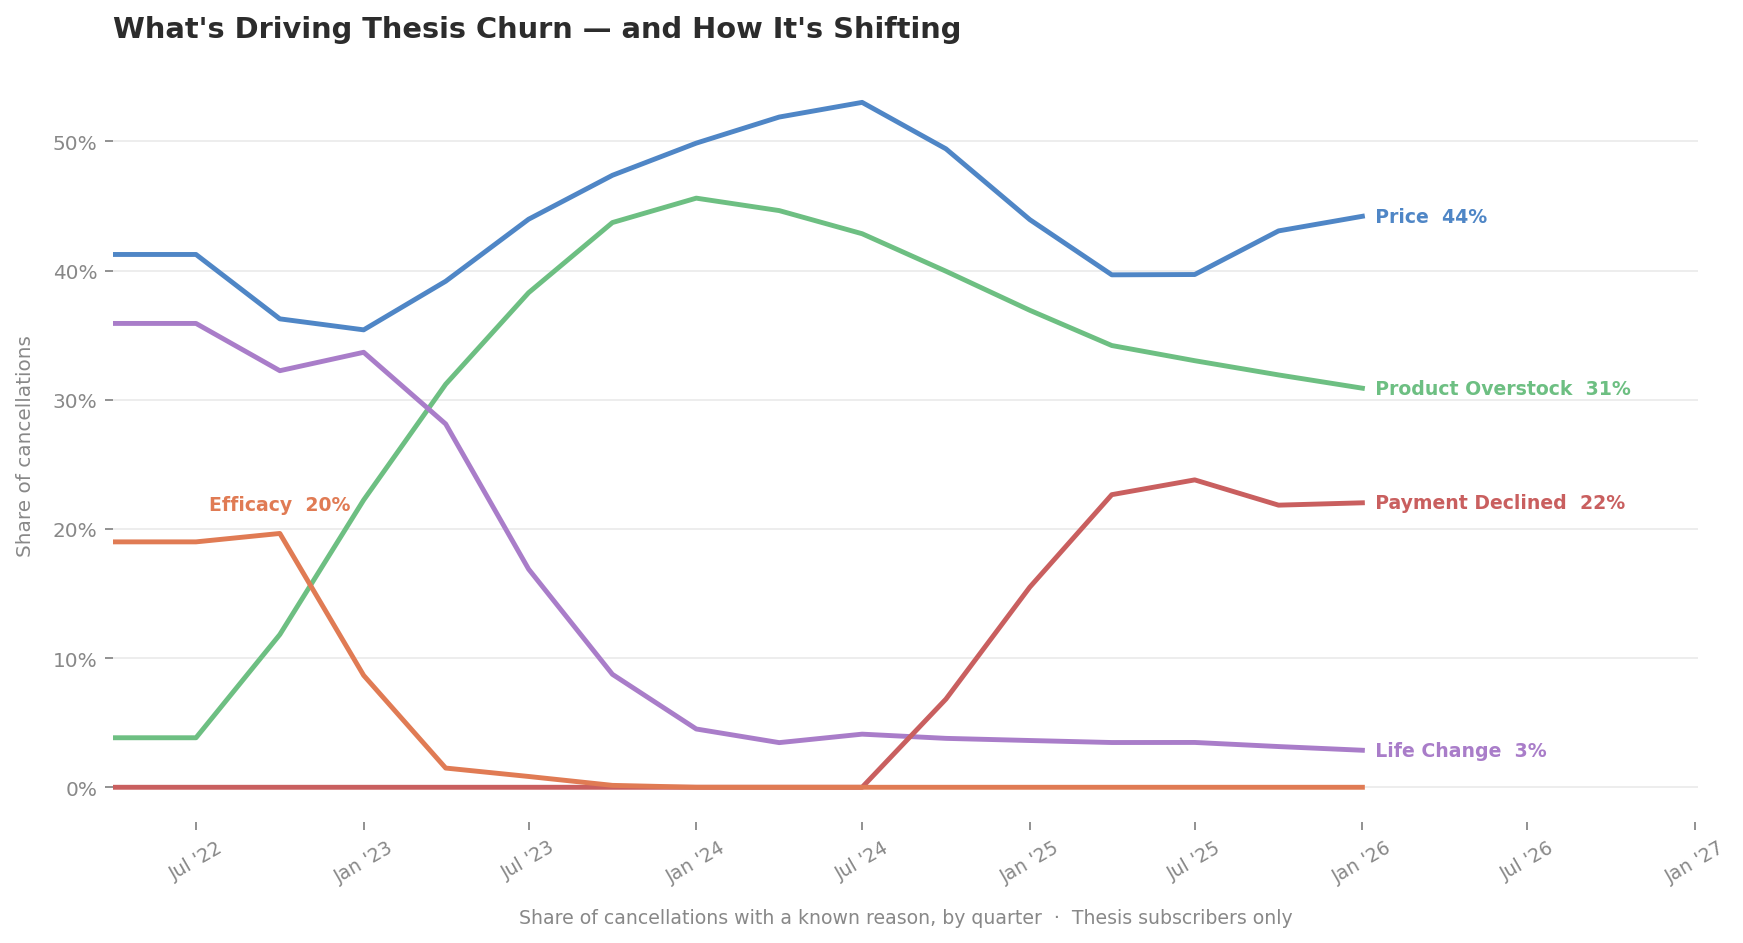
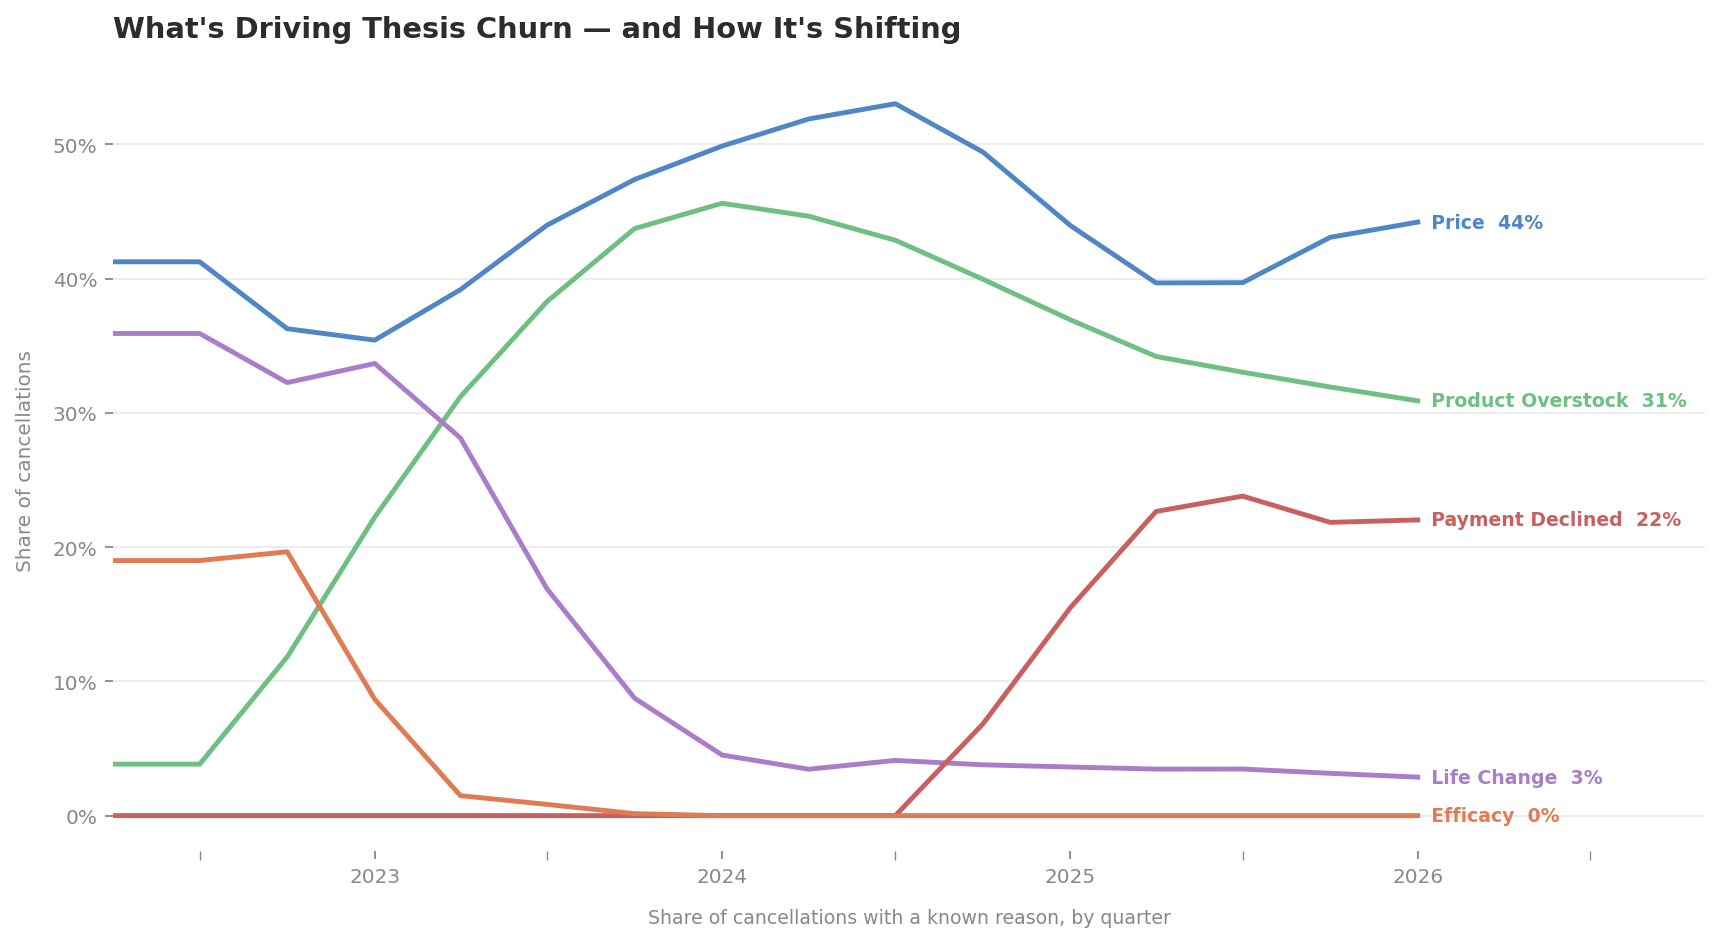
Trend chart: consistent end labels, year-only axis, no phantom future
All lines now labeled at endpoint (Efficacy shows 0% at end)
Subtitle: removed 'Thesis subscribers only'
X-axis: year labels only at Jan ticks, tick marks at Jul intervals
X-axis range: ends at last data point (Jan 2026), ~22% label padding only

diff --git a/docs/make_charts.py b/docs/make_charts.py
@@ -182,7 +182,7 @@ def chart_2():
 # ─────────────────────────────────────────────────────────────────────────────
 
 C3_TITLE    = "What's Driving Thesis Churn — and How It's Shifting"
-C3_SUBTITLE = "Share of cancellations with a known reason, by quarter  ·  Thesis subscribers only"
+C3_SUBTITLE = "Share of cancellations with a known reason, by quarter"
 C3_YLABEL   = "Share of cancellations"
 C3_OUT      = Path(__file__).parent / "chart_3_trends.png"
 C3_FIG_SIZE = (11, 6)
@@ -231,29 +231,26 @@ def chart_3():
 
         ax.plot(dates, smoothed, color=color, linewidth=2.2, zorder=4)
 
-        # Label at the peak (handles lines that end near zero)
-        peak_i     = int(np.argmax(smoothed))
-        peak_val   = smoothed[peak_i]
-        final_val  = smoothed[-1]
+        # Label every line at its endpoint, consistently
+        final_val = smoothed[-1]
+        # Small vertical nudge to avoid overlap at crowded values
+        ax.text(dates[-1], final_val, f"  {ARCH_LABELS[arch]}  {final_val:.0f}%",
+                ha="left", va="center", fontsize=8.5,
+                color=color, fontweight="600")
 
-        # Place label at right end if final > 2%, otherwise at peak
-        if final_val >= 2:
-            lx, ly = dates[-1], final_val
-            ax.text(lx, ly, f"  {ARCH_LABELS[arch]}  {final_val:.0f}%",
-                    ha="left", va="center", fontsize=8.5,
-                    color=color, fontweight="600")
-        elif peak_val >= 2:
-            lx, ly = dates[peak_i], peak_val
-            ax.text(lx, ly + 1.5, f"{ARCH_LABELS[arch]}  {peak_val:.0f}%",
-                    ha="center", va="bottom", fontsize=8.5,
-                    color=color, fontweight="600")
-
-    # X-axis: quarterly dates, labelled by year
-    ax.set_xlim(dates[0], dates[-1] + (dates[-1] - dates[-2]) * 4)
     import matplotlib.dates as mdates
-    ax.xaxis.set_major_locator(mdates.MonthLocator(bymonth=[1, 7]))
-    ax.xaxis.set_major_formatter(mdates.DateFormatter("%b '%y"))
-    ax.tick_params(axis="x", colors=TEXT_MUTED, labelsize=8.5, rotation=30)
+
+    # X-axis ends at last data point — no phantom future
+    # Add just enough right padding for end labels to breathe
+    label_pad = (dates[-1] - dates[0]) * 0.22
+    ax.set_xlim(dates[0], dates[-1] + label_pad)
+
+    # Tick marks every 6 months; labels show year only at Jan ticks
+    ax.xaxis.set_minor_locator(mdates.MonthLocator(bymonth=[7]))   # Jul tick marks only
+    ax.xaxis.set_major_locator(mdates.YearLocator())               # Jan = year label
+    ax.xaxis.set_major_formatter(mdates.DateFormatter("%Y"))
+    ax.tick_params(axis="x", which="major", colors=TEXT_MUTED, labelsize=9, rotation=0)
+    ax.tick_params(axis="x", which="minor", colors=TEXT_MUTED, length=4)
 
     ax.yaxis.set_major_formatter(ticker.FuncFormatter(lambda v, _: f"{v:.0f}%"))
     ax.set_ylabel(C3_YLABEL, color=TEXT_MUTED, fontsize=9, labelpad=8)
